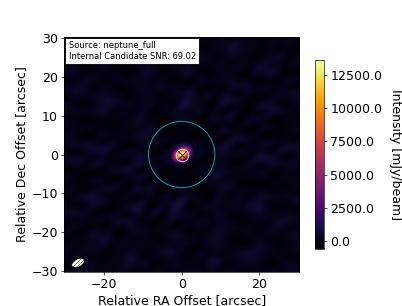
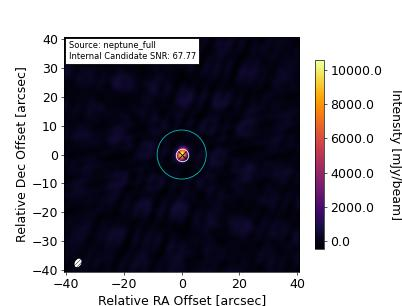
more testing

diff --git a/html/source_info.html b/html/source_info.html
@@ -12,7 +12,7 @@
     }
     </style>
     <body>
-    <p class='centered-large-text'>Source Information for 250105_04:05:43 (ObsID 00000) </p><table border="1" class="dataframe">
+    <p class='centered-large-text'>Source Information for 250106_03:59:50 (ObsID 00000) </p><table border="1" class="dataframe">
   <thead>
     <tr style="text-align: right;">
       <th></th>
@@ -26,27 +26,27 @@
     </tr>
     <tr>
       <th>target_dir</th>
-      <td>/sma/data/science/mir_data/250105_04:05:43</td>
+      <td>/sma/data/science/mir_data/250106_03:59:50</td>
     </tr>
     <tr>
       <th>sciTargs</th>
-      <td>AB_Aur, DN_Tau</td>
+      <td>4C+27.50, 0222+430</td>
     </tr>
     <tr>
       <th>gainCals</th>
-      <td>3c111, 0510+180</td>
+      <td>2225-049, 2229-085, 2232+117, 2253+161, 0530+135, 0423-013, 0433+053, 0509+056, 0555+398, 0418+380, 0238+166, 0449+113, 0958+655, 0721+713, 0854+201</td>
     </tr>
     <tr>
       <th>fluxCals</th>
-      <td>Uranus, Titan, Vesta</td>
+      <td>Uranus, uranus, neptune</td>
     </tr>
     <tr>
       <th>bpCals</th>
-      <td>3c279</td>
+      <td>bllac, 3C84</td>
     </tr>
     <tr>
       <th>polCals</th>
-      <td></td>
+      <td>bllac_LR, 3C84_LR, 0958+655_LR</td>
     </tr>
     <tr>
       <th>selfCals</th>
@@ -54,7 +54,7 @@
     </tr>
     <tr>
       <th>otherCals</th>
-      <td></td>
+      <td>0841+708</td>
     </tr>
     <tr>
       <th>deadList</th>
@@ -81,25 +81,73 @@
         <img src='./uranus_full_rb5.0_et0.001.jpg'>
         <br>
         
-        <img src='./titan_full_rb5.0_et0.001.jpg'>
+        <img src='./neptune_full_rb5.0_et0.001.jpg'>
         <br>
         
-        <img src='./3c111_full_rb5.0_et0.001.jpg'>
+        <img src='./bllac_lr_full_rb5.0_et0.001.jpg'>
         <br>
         
-        <img src='./ab_aur_full_rb5.0_et0.001.jpg'>
+        <img src='./bllac_full_rb5.0_et0.001.jpg'>
         <br>
         
-        <img src='./0510+180_full_rb5.0_et0.001.jpg'>
+        <img src='./2225-049_full_rb5.0_et0.001.jpg'>
         <br>
         
-        <img src='./dn_tau_full_rb5.0_et0.001.jpg'>
+        <img src='./2229-085_full_rb5.0_et0.001.jpg'>
         <br>
         
-        <img src='./vesta_full_rb5.0_et0.001.jpg'>
+        <img src='./2232+117_full_rb5.0_et0.001.jpg'>
         <br>
         
-        <img src='./3c279_full_rb5.0_et0.001.jpg'>
+        <img src='./2253+161_full_rb5.0_et0.001.jpg'>
+        <br>
+        
+        <img src='./3c84_full_rb5.0_et0.001.jpg'>
+        <br>
+        
+        <img src='./3c84_lr_full_rb5.0_et0.001.jpg'>
+        <br>
+        
+        <img src='./0530+135_full_rb5.0_et0.001.jpg'>
+        <br>
+        
+        <img src='./0423-013_full_rb5.0_et0.001.jpg'>
+        <br>
+        
+        <img src='./0433+053_full_rb5.0_et0.001.jpg'>
+        <br>
+        
+        <img src='./0509+056_full_rb5.0_et0.001.jpg'>
+        <br>
+        
+        <img src='./0555+398_full_rb5.0_et0.001.jpg'>
+        <br>
+        
+        <img src='./0418+380_full_rb5.0_et0.001.jpg'>
+        <br>
+        
+        <img src='./0238+166_full_rb5.0_et0.001.jpg'>
+        <br>
+        
+        <img src='./0222+430_full_rb5.0_et0.001.jpg'>
+        <br>
+        
+        <img src='./0449+113_full_rb5.0_et0.001.jpg'>
+        <br>
+        
+        <img src='./0958+655_full_rb5.0_et0.001.jpg'>
+        <br>
+        
+        <img src='./0958+655_lr_full_rb5.0_et0.001.jpg'>
+        <br>
+        
+        <img src='./0721+713_full_rb5.0_et0.001.jpg'>
+        <br>
+        
+        <img src='./0854+201_full_rb5.0_et0.001.jpg'>
+        <br>
+        
+        <img src='./0841+708_full_rb5.0_et0.001.jpg'>
         <br>
         <table border="1" class="dataframe">
   <thead>
@@ -121,44 +169,30 @@
   <tbody>
     <tr>
       <th>source_1</th>
-      <td>ab_aur</td>
-      <td>6-13-25 11:10:13</td>
-      <td>ab_aur_full.fits</td>
-      <td>3.295 arcsec</td>
-      <td>2.915 arcsec</td>
-      <td>105.0 deg</td>
-      <td>0.635 mJy</td>
-      <td>60.222 mJy</td>
-      <td>73.941 deg</td>
-      <td>30.551 deg</td>
+      <td>0222+430</td>
+      <td>6-13-25 11:12:40</td>
+      <td>0222+430_full.fits</td>
+      <td>4.205 arcsec</td>
+      <td>3.065 arcsec</td>
+      <td>79.0 deg</td>
+      <td>7.346 mJy</td>
+      <td>415.402 mJy</td>
+      <td>35.665 deg</td>
+      <td>43.035 deg</td>
       <td>True</td>
     </tr>
     <tr>
       <th>source_2</th>
-      <td>dn_tau</td>
-      <td>6-13-25 11:10:15</td>
-      <td>dn_tau_full.fits</td>
-      <td>3.225 arcsec</td>
-      <td>2.898 arcsec</td>
-      <td>109.0 deg</td>
-      <td>0.55 mJy</td>
-      <td>78.718 mJy</td>
-      <td>68.864 deg</td>
-      <td>24.249 deg</td>
-      <td>True</td>
-    </tr>
-    <tr>
-      <th>source_3</th>
-      <td>dn_tau</td>
-      <td>6-13-25 11:10:15</td>
-      <td>dn_tau_full.fits</td>
-      <td>3.225 arcsec</td>
-      <td>2.898 arcsec</td>
-      <td>109.0 deg</td>
-      <td>0.55 mJy</td>
-      <td>2.679 mJy</td>
-      <td>68.867 deg</td>
-      <td>24.254 deg</td>
+      <td>0222+430</td>
+      <td>6-13-25 11:12:40</td>
+      <td>0222+430_full.fits</td>
+      <td>4.205 arcsec</td>
+      <td>3.065 arcsec</td>
+      <td>79.0 deg</td>
+      <td>7.346 mJy</td>
+      <td>48.983 mJy</td>
+      <td>35.657 deg</td>
+      <td>43.039 deg</td>
       <td>False</td>
     </tr>
   </tbody>
